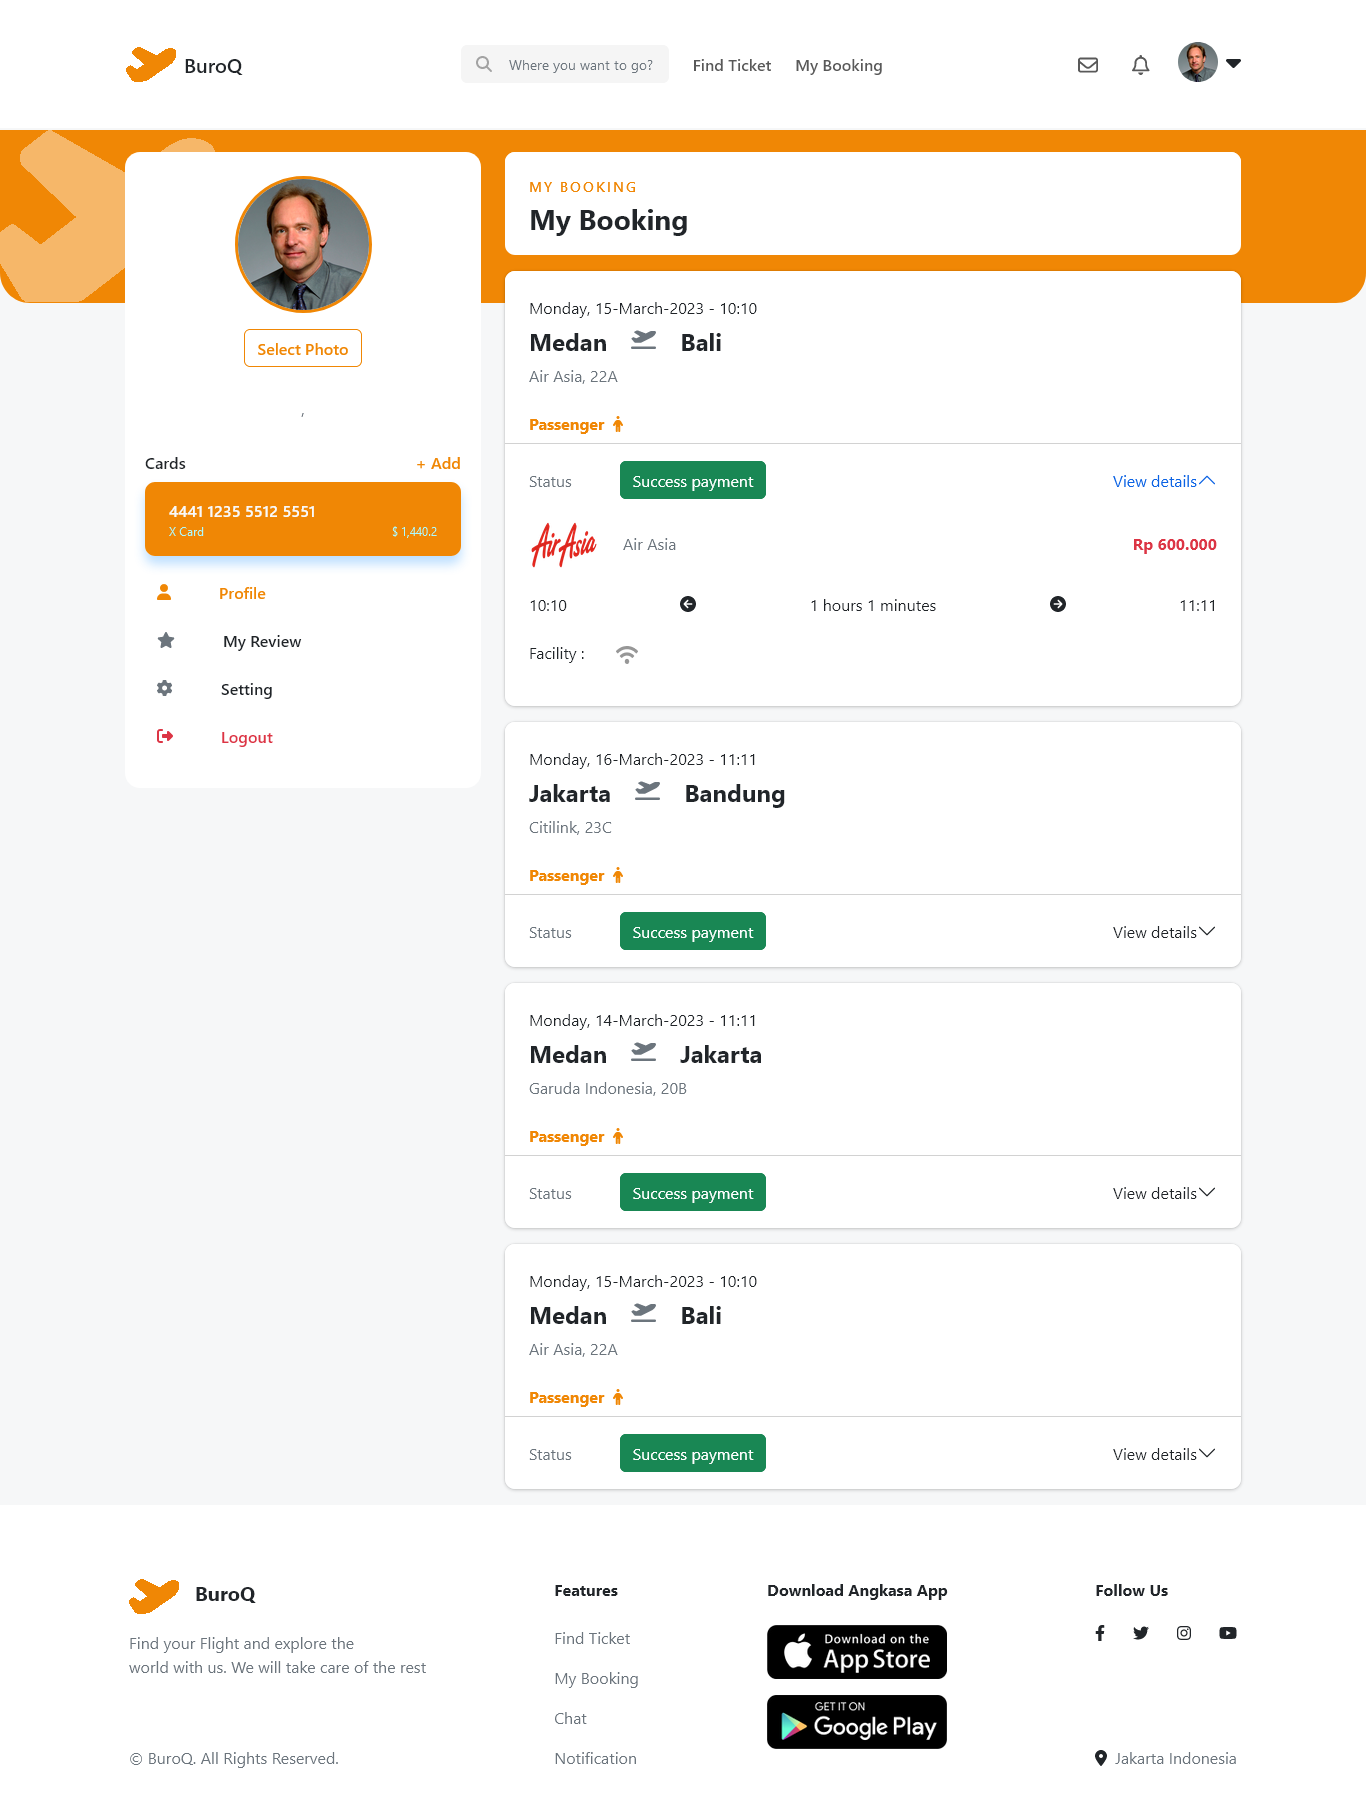
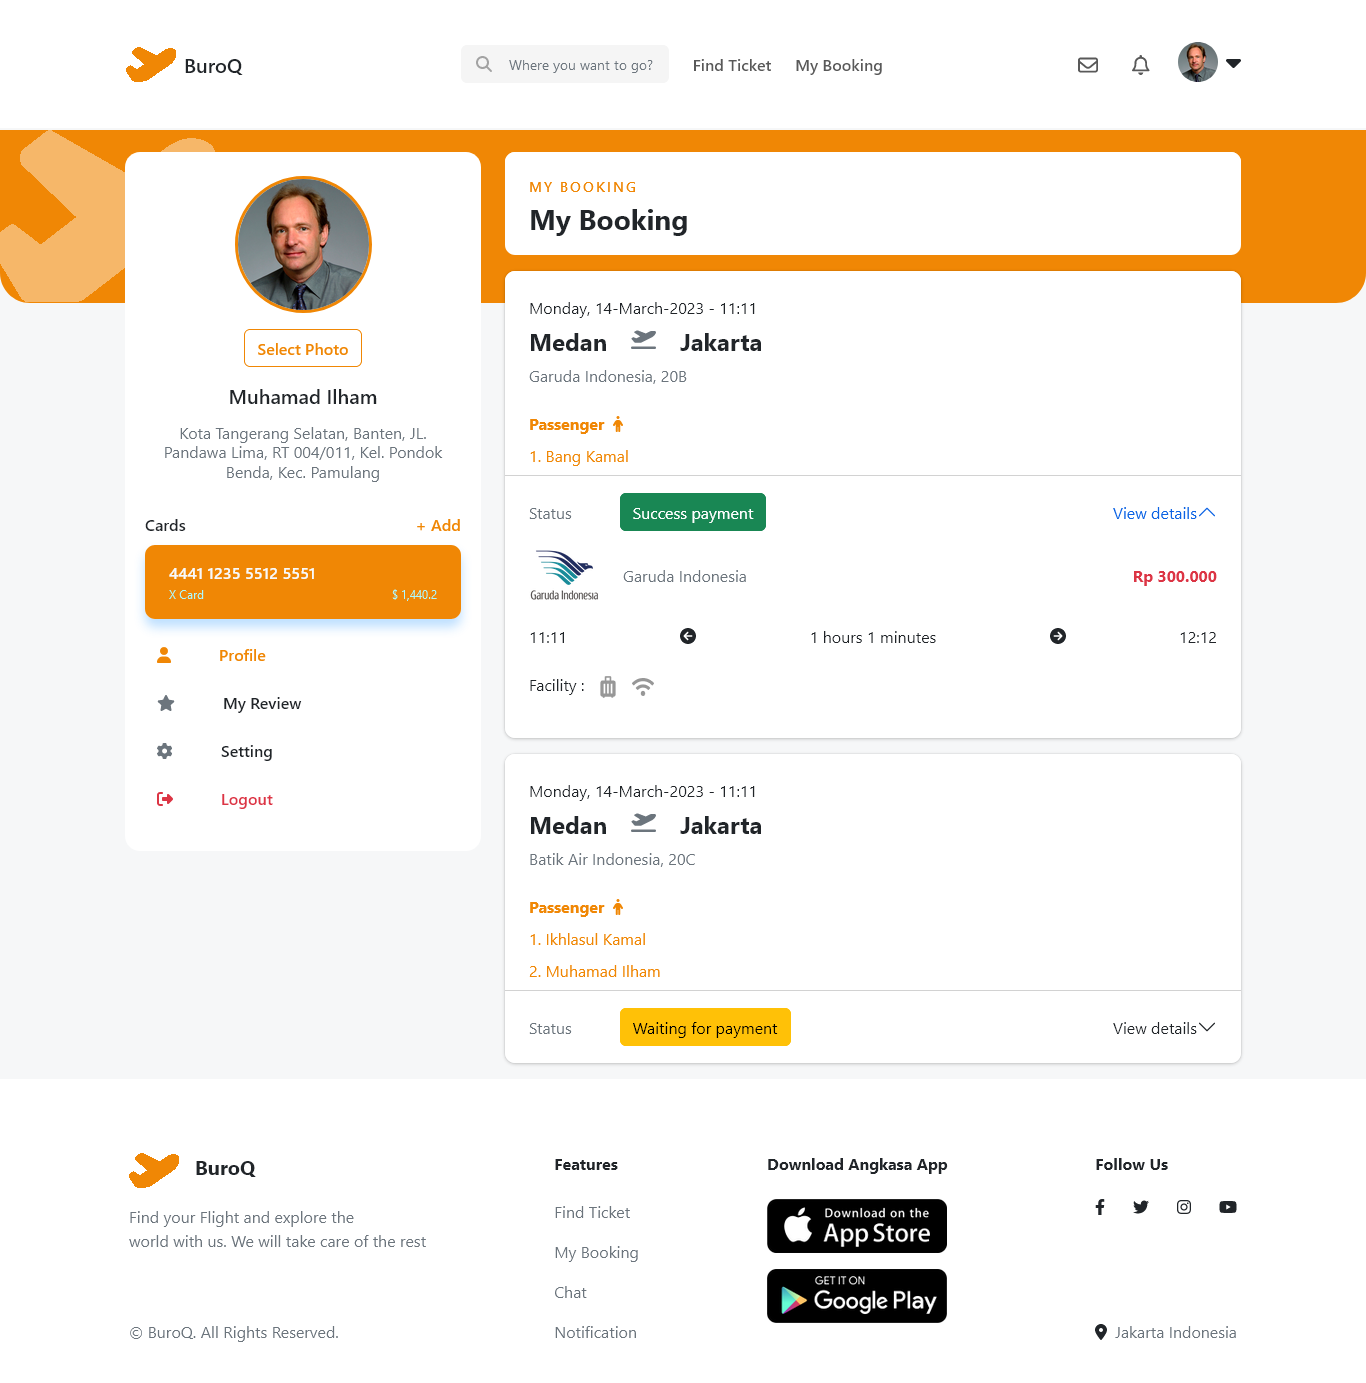
change Readme

diff --git a/src/pages/MyBooking/MyBooking.jsx b/src/pages/MyBooking/MyBooking.jsx
@@ -4,12 +4,14 @@ import BookingCard from '../../../components/Cards/BookingCard/BookingCard'
 import ProfileCard from '../../../components/Cards/ProfileCard/ProfileCard'
 import SectionCard from '../../../components/Cards/SectionCard/SectionCard'
 import DoubleSideLayout from '../../../template/DoubleSideLayout/DoubleSideLayout'
-import {useGetBookingByIdUserQuery} from '../../features/booking/bookingApi'
+import { useGetBookingByIdUserQuery } from '../../features/booking/bookingApi'
 import { useGetFlightByIdQuery } from '../../features/flight/flightApi'
+import { useGetUserProfileQuery } from '../../features/auth/authApi'
 
 const MyBooking = () => {
+  const { data } = useGetUserProfileQuery({}, { skip: localStorage.getItem(`sso`) ? false : true })
   const user = useSelector(state => state?.auth?.user)
-  const {data : myBooking, isLoading} = useGetBookingByIdUserQuery(user?.id)
+  const { data: myBooking } = useGetBookingByIdUserQuery(user?.id)
   // const {data : flight} = useGetFlightByIdQuery(myBooking)
   // console.log(myBooking?.data?.id_flight);
 
@@ -17,7 +19,7 @@ const MyBooking = () => {
     <DoubleSideLayout
       classLeft={'col-12 col-md-5 col-lg-4'}
       classRight={'col-12 col-md-7 col-lg-8 mt-3 mt-md-0'}
-      leftside={<ProfileCard className={`d-none d-sm-flex`}/>}
+      leftside={<ProfileCard className={`d-none d-sm-flex`} data={data} />}
     >
       <SectionCard header={true} title={"My Booking"}>
         <div className="row">
@@ -30,12 +32,12 @@ const MyBooking = () => {
       {myBooking?.data?.map(boks => (
         console.log(boks),
         <>
-        <BookingCard 
-          header={true}
-          id_booking={boks.id}
-          id_flight={boks.id_flight}  
-          status={boks.status}
-        />
+          <BookingCard
+            header={true}
+            id_booking={boks.id}
+            id_flight={boks.id_flight}
+            status={boks.status}
+          />
         </>
       ))}
     </DoubleSideLayout>

diff --git a/src/App.jsx b/src/App.jsx
@@ -31,7 +31,7 @@ function App() {
 
   useEffect(() => {
     const getUser = async () => {
-      fetch('https://be-tiket-app.up.railway.app/auth/login/success', {
+      fetch('http://localhost:3001/auth/login/success', {
         method: 'GET',
         credentials: 'include',
         headers: {

diff --git a/src/pages/Login/index.jsx b/src/pages/Login/index.jsx
@@ -67,7 +67,7 @@ const Login = () => {
   }, [isLoading, isSuccess, isError]);
 
   const googleRedirect = () => {
-    window.open(`https://be-tiket-app.up.railway.app/auth/google`, '_self')
+    window.open(`http://localhost:3001/auth/google`, '_self')
   }
 
   return (

diff --git a/README.md b/README.md
@@ -89,66 +89,54 @@ VITE_API_ENDPOINT = [BACKEND_URL]
 
 <table>
  <tr>
-    <td><img width="350px" src="./documentation/home.png"  border="0" border="0" alt="1" /></td>
+    <td><img width="350px" src="./documentation/Register.png"  border="0" border="0" alt="1" /></td>
     <td> <img width="350px" src="./documentation/Login.png" \ border="0"  border="0"  border="0"  alt="2" /></td>
   </tr>
    <tr>
-    <td>Landing Page</td>
+    <td>Register</td>
     <td>Login</td>
   </tr>
 
   <tr>
-    <td><img width="350px" src="./documentation/Register.png"  border="0" border="0" alt="3" /> </td>
-     <!-- <td><img width="350px" src="./documentation/profile.png"  border="0" border="0" alt="4" /></td> -->
+    <td><img width="350px" src="./documentation/home.png"  border="0" border="0" alt="3" /> </td>
+     <td><img width="350px" src="./documentation/booking-detail.png"  border="0" border="0" alt="4" /></td>
   </tr>
    <tr>
-    <td>Register</td>
-     <!-- <td>Profile</td> -->
+    <td>Landing Page</td>
+     <td>Flight Detail</td>
   </tr>
     <tr>
-    <!-- <td><img width="350px" src="./documentation/flightDetail.png"  border="0" border="0" alt="3" /> </td> -->
-     <td><img width="350px" src="./documentation/find-tiket.png"  border="0" border="0" alt="4" /></td>
-  </tr>
-   <tr>
-    <td>Flight Detail</td>
-     <td>Search Flight</td>
-  <!-- </tr>
-    <tr>
-    <td><img width="350px" src="./documentation/flightDetail.png"  border="0" border="0" alt="3" /> </td>
-     <td><img width="350px" src="./documentation/search.png"  border="0" border="0" alt="4" /></td>
-  </tr>
-   <tr>
-    <td>Flight Detail</td>
-     <td>Search Flight</td>
-  </tr> -->
-  <tr>
     <td><img width="350px" src="./documentation/my-booking.png"  border="0" border="0" alt="3" /> </td>
-     <!-- <td><img width="350px" src="./documentation/dashboard.png"  border="0" border="0" alt="4" /></td> -->
+    <td><img width="350px" src="./documentation/profile.png"  border="0" border="0" alt="4" /></td>
   </tr>
    <tr>
-  <td>My Booking</td>
-    <td>Dashboard Admin</td>
+    <td>My Booking</td>
+     <td>Profile</td>
+  </tr>
+    <tr>
+    <td><img width="350px" src="./documentation/tiket.png"  border="0" border="0" alt="3" /> </td>
+     <td><img width="350px" src="./documentation/admin-login.png"  border="0" border="0" alt="4" /></td>
+  </tr>
+   <tr>
+    <td>Passanger Tiker</td>
+     <td>Admin Login</td>
   </tr>
   <tr>
-    <!-- <td><img width="350px" src="https://i.ibb.co/XCZZDmp/airline-Admin.png"  border="0" border="0" alt="3" /> </td> -->
+    <td><img width="350px" src="./documentation/admin-airline-information.png"  border="0" border="0" alt="3" /> </td>
+    <td><img width="350px" src="./documentation/admin-create-flight.png"  border="0" border="0" alt="4" /></td>
+  </tr>
+    <tr>
+      <td>Airline Information - Admin</td>
+      <td>Create Flight - Admin</td>
+    </tr>
+  <tr>
+    <td><img width="350px" src="./documentation/admin-update-destination.png"  border="0" border="0" alt="3" /> </td>
     <td><img width="350px" src="./documentation/flightAdmin.png"  border="0" border="0" alt="4" /></td>
   </tr>
    <tr>
     <td>Airline Admin</td>
      <td>Flight Admin</td>
   </tr>
-  <!-- <tr>
-    <td><img width="350px" src="./documentation/paymentAdmin.png"  border="0" border="0" alt="3" /> </td>
-     <td><img width="350px" src="https://i.ibb.co/jDVz0d7/city-Admin.png"   border="0" border="0" alt="4" /></td>
-  </tr>
-   <tr>
-    <td>Payment Admin</td>
-     <td>City Airline Admin</td>
-  </tr> -->
-  
- 
-</table>
-
 <!-- CONTRIBUTING -->
 
 ## Contributing
